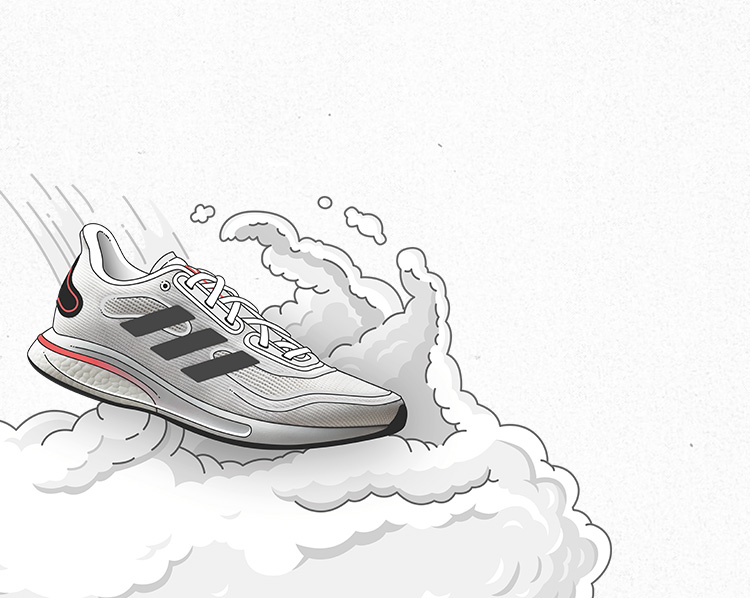
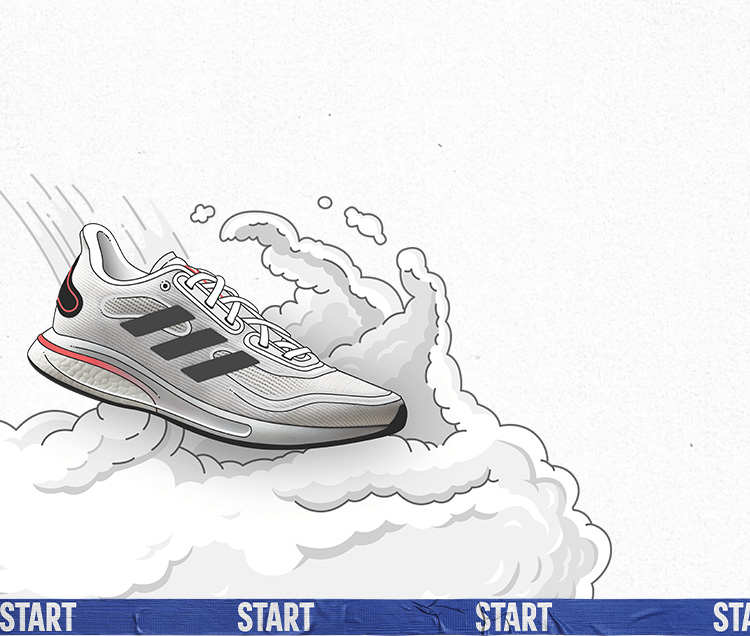
adi_cp_슈퍼노바 수정

Changed region(s): [[0.0, 0.2709, 1.0, 1.0]]

diff --git a/mobile/html/adidas/2020/event/supernova/build/index.html b/mobile/html/adidas/2020/event/supernova/build/index.html
@@ -16,7 +16,6 @@
 	<script type="text/javascript" src="/designjs/common/owl.carousel.min.js"></script>
 	<script type="text/javascript" src="/designjs/common/modalPopup.min.js"></script>
 	<script type="text/javascript" src="/designjs/common/zoomImage.js"></script>
-	<script type="text/javascript" src="/designjs/adidas/common.js"></script>
 	<title>아디다스 모바일</title>
 
 	<style>
@@ -31,7 +30,7 @@
 		<header include-html="/html/adidas/inc/header_.html"></header>
 
 		<div id="container">
-<style type="text/css">@media screen and (max-width: 320px){html{font-size:10px}}@media screen and (min-width: 800px){html{font-size:12px}}.pseudo-element{content:'';display:block}html,body{width:100%}button{outline:none}#supernova{position:relative}#supernova .button_area_v2{display:inline-block}#supernova .button_area_v2 a{padding:0 6vw;font:500 1rem/3.4rem 'NotoSansKR';letter-spacing:.15rem;height:3.4rem}#supernova .button_area_v2 a .arrow{margin-left:1rem;width:20px}#supernova .button_area_v2 a .arrow::after,#supernova .button_area_v2 a .arrow::before{width:7px;height:2px}#supernova .button_area_v2 a .arrow::before{bottom:-2px}#supernova .button_area_v2 a .arrow::after{top:-2px}#supernova .main_vs .main_vs_box{position:relative}#supernova .main_vs .main_vs_box>img{display:block;width:100%}#supernova .main_vs .main_vs_box .main_txt{position:absolute;left:50%;top:40%;transform:translate(-5%, -50%);text-align:right}#supernova .main_vs .main_vs_box .main_txt img{width:80%}#supernova .main_vs .main_vs_box .main_txt p{text-align:right;font:700 0.9rem/1.3rem 'NotoSansKR';color:#df6874;padding:14px 0 12px 0;letter-spacing:1px}#supernova .main_vs .main_vs_box .main_txt p span{display:block}#supernova .nova_shoes{padding:32px 0 33px 0}#supernova .nova_shoes .txt p{font:400 1.1rem/1.6rem 'NotoSansKR';text-align:center;color:#111;letter-spacing:0}#supernova .nova_shoes .txt p span{display:block}#supernova .nova_shoes .shoes_list{padding-top:30px;padding:30px 10.7% 0 10.7%}#supernova .nova_shoes .shoes_list .item img{width:100%}#supernova .nova_shoes .shoes_list .item h2{text-align:center;font:700 1.5rem/1.4rem 'NotoSansKR';color:#343434;padding:19px 0 9px 0}#supernova .nova_shoes .shoes_list .item p{text-align:center;font:500 1rem/1.3rem 'NotoSansKR';color:#181717;padding-bottom:10px}#supernova .nova_shoes .shoes_list .item p span{display:block}#supernova .nova_shoes .shoes_list .slick-dots{padding:10px 0 0 0;text-align:center}#supernova .nova_shoes .shoes_list .slick-dots li{display:inline-block;margin-right:5px}#supernova .nova_shoes .shoes_list .slick-dots li button{width:13px;height:13.5px;border-radius:50%;border:none;background:#d9d9d9;padding:0;text-indent:-9999px}#supernova .nova_shoes .shoes_list .slick-dots li.slick-active button{background:#111}#supernova .nova_img_list{text-align:center}#supernova .nova_img_list ul{overflow:hidden}#supernova .nova_img_list ul li{float:left;vertical-align:top;line-height:0}#supernova .nova_img_list ul li img{width:100%}#supernova .nova_img_list ul li.img1{width:53.33333333333%}#supernova .nova_img_list ul li.img2{width:46.66666666667%}#supernova .nova_img_list ul li.img3{width:50.66666666667%}#supernova .nova_img_list ul li.img4{width:49.33333333333%}#supernova .nova_img_list ul li .video .bg{text-align:center;position:relative}#supernova .nova_img_list ul li .video .video_btn{position:absolute;left:58%;top:56%;transform:translate(-50%, -50%)}#supernova .nova_img_list ul li .video .video_btn button{background:url("/images/adidas/2020/event/supernova/btn.png") no-repeat;width:58px;height:63px;border:0;background-size:70%}#supernova .start_bg_bar img{display:block;width:100%}#supernova .nova_shoes_cloud{text-align:center}#supernova .nova_shoes_cloud video{display:block;width:160%;margin-left:-30%}#supernova .nova_bottom .nova_box{position:relative;text-align:center}#supernova .nova_bottom .nova_box img{display:block;width:100%}#supernova .nova_bottom .txt{position:absolute;left:50%;top:50%;transform:translate(-50%, -50%);text-align:center}#supernova .nova_bottom .txt img{width:80%;margin:0 auto}#supernova .nova_bottom .txt p{text-align:center;font:700 0.9rem/1.3rem 'NotoSansKR';color:#df6874;padding:8px 0 8px 0;letter-spacing:1px}#supernova .nova_bottom .txt p span{display:block}
+<style type="text/css">@media screen and (max-width: 320px){html{font-size:10px}}@media screen and (min-width: 800px){html{font-size:12px}}.pseudo-element{content:'';display:block}html,body{width:100%}button{outline:none}#supernova{position:relative}#supernova .button_area_v2{display:inline-block}#supernova .button_area_v2 a{padding:0 6vw;font:500 1rem/3.4rem 'NotoSansKR';letter-spacing:.15rem;height:3.4rem}#supernova .button_area_v2 a .arrow{margin-left:1rem;width:20px}#supernova .button_area_v2 a .arrow::after,#supernova .button_area_v2 a .arrow::before{width:7px;height:2px}#supernova .button_area_v2 a .arrow::before{bottom:-2px}#supernova .button_area_v2 a .arrow::after{top:-2px}#supernova .main_vs .main_vs_box{position:relative}#supernova .main_vs .main_vs_box>img{display:block;width:100%}#supernova .main_vs .main_vs_box .main_txt{position:absolute;left:50%;top:40%;transform:translate(-5%, -50%);text-align:right}#supernova .main_vs .main_vs_box .main_txt img{width:80%}#supernova .main_vs .main_vs_box .main_txt p{text-align:right;font:700 0.9rem/1.3rem 'NotoSansKR';color:#df6874;padding:14px 0 12px 0;letter-spacing:1px}#supernova .main_vs .main_vs_box .main_txt p span{display:block}#supernova .nova_shoes{padding:32px 0 33px 0}#supernova .nova_shoes .txt h3{text-align:center;font:700 1.4rem/1.5rem 'NotoSansKR';letter-spacing:normal}#supernova .nova_shoes .txt p{padding-top:5px;text-align:center;font:400 1rem/1.5rem 'NotoSansKR';letter-spacing:normal}#supernova .nova_shoes .shoes_list{padding-top:30px;padding:30px 10.7% 0 10.7%}#supernova .nova_shoes .shoes_list .item img{width:100%}#supernova .nova_shoes .shoes_list .item h2{text-align:center;font:700 1.5rem/1.4rem 'NotoSansKR';color:#343434;padding:19px 0 9px 0}#supernova .nova_shoes .shoes_list .item p{text-align:center;font:500 1rem/1.3rem 'NotoSansKR';color:#181717;padding-bottom:10px}#supernova .nova_shoes .shoes_list .item p span{display:block}#supernova .nova_shoes .shoes_list .slick-dots{padding:10px 0 0 0;text-align:center}#supernova .nova_shoes .shoes_list .slick-dots li{display:inline-block;margin-right:5px}#supernova .nova_shoes .shoes_list .slick-dots li button{width:13px;height:13.5px;border-radius:50%;border:none;background:#d9d9d9;padding:0;text-indent:-9999px}#supernova .nova_shoes .shoes_list .slick-dots li.slick-active button{background:#111}#supernova .nova_img_list{text-align:center}#supernova .nova_img_list ul{overflow:hidden}#supernova .nova_img_list ul li{float:left;vertical-align:top;line-height:0}#supernova .nova_img_list ul li img{width:100%}#supernova .nova_img_list ul li.img1{width:53.33333333333%}#supernova .nova_img_list ul li.img2{width:46.66666666667%}#supernova .nova_img_list ul li.img3{width:50.66666666667%}#supernova .nova_img_list ul li.img4{width:49.33333333333%}#supernova .nova_img_list ul li .video{position:relative}#supernova .nova_img_list ul li .video .bg{text-align:center}#supernova .nova_img_list ul li .video .video_btn{position:absolute;left:58%;top:56%;transform:translate(-50%, -50%)}#supernova .nova_img_list ul li .video .video_btn button{background:url("/images/adidas/2020/event/supernova/btn.png") no-repeat;width:58px;height:63px;border:0;background-size:70%}#supernova .start_bg_bar img{display:block;width:100%}#supernova .nova_mid .txt{padding:3rem 0}#supernova .nova_mid .txt p{font:400 1.1rem/1.6rem 'NotoSansKR';text-align:center;color:#111;letter-spacing:0}#supernova .nova_mid .txt p span{display:block}#supernova .nova_shoes_cloud{text-align:center}#supernova .nova_shoes_cloud video{display:block;width:160%;margin-left:-30%}#supernova .nova_bottom .nova_box{position:relative;text-align:center}#supernova .nova_bottom .nova_box img{display:block;width:100%}#supernova .nova_bottom .txt{position:absolute;left:50%;top:50%;transform:translate(-50%, -50%);text-align:center}#supernova .nova_bottom .txt img{width:80%;margin:0 auto}#supernova .nova_bottom .txt p{text-align:center;font:700 0.9rem/1.3rem 'NotoSansKR';color:#df6874;padding:8px 0 8px 0;letter-spacing:1px}#supernova .nova_bottom .txt p span{display:block}
 </style>
 			<script type="text/javascript" src="/designjs/common/slick.min.js"></script>
 			<link rel="stylesheet" type="text/css" href="/css/slick.css" />
@@ -60,13 +59,8 @@
 				</div><!--main_vs-->
 				<div class="nova_shoes">
 					<div class="txt">
-						<p>
-							첫 걸음을 내딛는 일은 피니시 라인을 통과하는 것보다 어려워.<span></span>
-							하지만 결국 때가 올 거야.<span></span>
-							다시 뛰기 위한 완벽한 준비로 새로운 나를 향해 나아갈 거야. <span></span>
-							넘치는 자신감, 그리고 건강한 몸과 마음으로<span></span>
-							다시 뜨겁게 땀 흘릴 그 날을 위해.
-						</p>
+						<h3>이보다 더 편할 수는 없다.</h3>
+						<p>유연하면서도 탄력감 있게 받쳐주는 쿠셔닝의 신세계</p>
 					</div>
 					<div class="shoes_list">
 						<div class="item">
@@ -101,12 +95,12 @@
 							<div class="video">
 								<div class="bg">
 									<img src="/images/adidas/2020/event/supernova/nova_1.jpg" alt="">
-									<div class="video_btn">
-										<button onclick="alert('COMMING SOON') //openModalVideoViewer('?????')" style="cursor:pointer;"></button>
-									</div>
 								</div>
-								<img src ="/images/adidas/2020/event/supernova/nova_3.jpg" alt="" />
+								<div class="video_btn">
+									<button onclick="openModalVideoViewer('07HGHs0bLf0')" style="cursor:pointer;"></button>
+								</div>								
 							</div>							
+							<img src ="/images/adidas/2020/event/supernova/nova_3.jpg" alt="" />							
 						</li>
 						<li class="img2">
 							<img src ="/images/adidas/2020/event/supernova/nova_2.jpg" alt="" />
@@ -122,10 +116,21 @@
 							<img src ="/images/adidas/2020/event/supernova/nova_9.jpg" alt="" />							
 						</li>															
 					</ul>
-					<div class="start_bg_bar">
-						<img src="/images/adidas/2020/event/supernova/start_bg_bar.jpg" alt="start 띠 배경"/>
-					</div>
 				</div><!--nova_img_list-->
+				<div class="nova_mid">
+					<div class="txt">
+						<p>
+							첫 걸음을 내딛는 일은 피니시 라인을 통과하는 것보다 어려워.<span></span>
+							하지만 결국 때가 올 거야.<span></span>
+							다시 뛰기 위한 완벽한 준비로 새로운 나를 향해 나아갈 거야. <span></span>
+							넘치는 자신감, 그리고 건강한 몸과 마음으로<span></span>
+							다시 뜨겁게 땀 흘릴 그 날을 위해.
+						</p>
+					</div>
+				</div>
+				<div class="start_bg_bar">
+					<img src="/images/adidas/2020/event/supernova/start_bg_bar.jpg" alt="start 띠 배경"/>
+				</div>				
 				<div class="nova_shoes_cloud">
 					<video autoplay muted loop playsinline poster="/images/adidas/2020/event/supernova/shoes_cloud.jpg" width="auto" height="auto" class="video_act">
 						<source src="https://shop.adidas.co.kr/upload/design_temp/video/2020/a/supernova/supernova1280x720.mp4" type="video/mp4" />
@@ -133,7 +138,7 @@
 					</video>
 				</div><!--nova_shoes_cloud-->
 				<div class="start_bg_bar">
-					<img src="/images/adidas/2020/event/supernova/start_bg_bar.jpg" alt="start 띠 배경"/>
+					<img src="/images/adidas/2020/event/supernova/start_bg_bar2.png" alt="start 띠 배경"/>
 				</div>
 				<div class="nova_bottom">
 					<div class="nova_box">
@@ -184,6 +189,6 @@
 
 
 		<script type="text/javascript" src="/designjs/adidas/includeHTML.js"></script>
-
+		<script type="text/javascript" src="/designjs/adidas/common.js"></script>
 </body>
 </html>

diff --git a/mobile/html/adidas/pn/Supernova.html b/mobile/html/adidas/pn/Supernova.html
@@ -1,5 +1,5 @@
 <div id="container">
-	<style type="text/css">@media screen and (max-width: 320px){html{font-size:10px}}@media screen and (min-width: 800px){html{font-size:12px}}.pseudo-element{content:'';display:block}html,body{width:100%}button{outline:none}#supernova{position:relative}#supernova .button_area_v2{display:inline-block}#supernova .button_area_v2 a{padding:0 6vw;font:500 1rem/3.4rem 'NotoSansKR';letter-spacing:.15rem;height:3.4rem}#supernova .button_area_v2 a .arrow{margin-left:1rem;width:20px}#supernova .button_area_v2 a .arrow::after,#supernova .button_area_v2 a .arrow::before{width:7px;height:2px}#supernova .button_area_v2 a .arrow::before{bottom:-2px}#supernova .button_area_v2 a .arrow::after{top:-2px}#supernova .main_vs .main_vs_box{position:relative}#supernova .main_vs .main_vs_box>img{display:block;width:100%}#supernova .main_vs .main_vs_box .main_txt{position:absolute;left:50%;top:40%;transform:translate(-5%, -50%);text-align:right}#supernova .main_vs .main_vs_box .main_txt img{width:80%}#supernova .main_vs .main_vs_box .main_txt p{text-align:right;font:700 0.9rem/1.3rem 'NotoSansKR';color:#df6874;padding:14px 0 12px 0;letter-spacing:1px}#supernova .main_vs .main_vs_box .main_txt p span{display:block}#supernova .nova_shoes{padding:32px 0 33px 0}#supernova .nova_shoes .txt p{font:400 1.1rem/1.6rem 'NotoSansKR';text-align:center;color:#111;letter-spacing:0}#supernova .nova_shoes .txt p span{display:block}#supernova .nova_shoes .shoes_list{padding-top:30px;padding:30px 10.7% 0 10.7%}#supernova .nova_shoes .shoes_list .item img{width:100%}#supernova .nova_shoes .shoes_list .item h2{text-align:center;font:700 1.5rem/1.4rem 'NotoSansKR';color:#343434;padding:19px 0 9px 0}#supernova .nova_shoes .shoes_list .item p{text-align:center;font:500 1rem/1.3rem 'NotoSansKR';color:#181717;padding-bottom:10px}#supernova .nova_shoes .shoes_list .item p span{display:block}#supernova .nova_shoes .shoes_list .slick-dots{padding:10px 0 0 0;text-align:center}#supernova .nova_shoes .shoes_list .slick-dots li{display:inline-block;margin-right:5px}#supernova .nova_shoes .shoes_list .slick-dots li button{width:13px;height:13.5px;border-radius:50%;border:none;background:#d9d9d9;padding:0;text-indent:-9999px}#supernova .nova_shoes .shoes_list .slick-dots li.slick-active button{background:#111}#supernova .nova_img_list{text-align:center}#supernova .nova_img_list ul{overflow:hidden}#supernova .nova_img_list ul li{float:left;vertical-align:top;line-height:0}#supernova .nova_img_list ul li img{width:100%}#supernova .nova_img_list ul li.img1{width:53.33333333333%}#supernova .nova_img_list ul li.img2{width:46.66666666667%}#supernova .nova_img_list ul li.img3{width:50.66666666667%}#supernova .nova_img_list ul li.img4{width:49.33333333333%}#supernova .nova_img_list ul li .video .bg{text-align:center;position:relative}#supernova .nova_img_list ul li .video .video_btn{position:absolute;left:58%;top:56%;transform:translate(-50%, -50%)}#supernova .nova_img_list ul li .video .video_btn button{background:url("/images/adidas/2020/event/supernova/btn.png") no-repeat;width:58px;height:63px;border:0;background-size:70%}#supernova .start_bg_bar img{display:block;width:100%}#supernova .nova_shoes_cloud{text-align:center}#supernova .nova_shoes_cloud video{display:block;width:160%;margin-left:-30%}#supernova .nova_bottom .nova_box{position:relative;text-align:center}#supernova .nova_bottom .nova_box img{display:block;width:100%}#supernova .nova_bottom .txt{position:absolute;left:50%;top:50%;transform:translate(-50%, -50%);text-align:center}#supernova .nova_bottom .txt img{width:80%;margin:0 auto}#supernova .nova_bottom .txt p{text-align:center;font:700 0.9rem/1.3rem 'NotoSansKR';color:#df6874;padding:8px 0 8px 0;letter-spacing:1px}#supernova .nova_bottom .txt p span{display:block}
+	<style type="text/css">@media screen and (max-width: 320px){html{font-size:10px}}@media screen and (min-width: 800px){html{font-size:12px}}.pseudo-element{content:'';display:block}html,body{width:100%}button{outline:none}#supernova{position:relative}#supernova .button_area_v2{display:inline-block}#supernova .button_area_v2 a{padding:0 6vw;font:500 1rem/3.4rem 'NotoSansKR';letter-spacing:.15rem;height:3.4rem}#supernova .button_area_v2 a .arrow{margin-left:1rem;width:20px}#supernova .button_area_v2 a .arrow::after,#supernova .button_area_v2 a .arrow::before{width:7px;height:2px}#supernova .button_area_v2 a .arrow::before{bottom:-2px}#supernova .button_area_v2 a .arrow::after{top:-2px}#supernova .main_vs .main_vs_box{position:relative}#supernova .main_vs .main_vs_box>img{display:block;width:100%}#supernova .main_vs .main_vs_box .main_txt{position:absolute;left:50%;top:40%;transform:translate(-5%, -50%);text-align:right}#supernova .main_vs .main_vs_box .main_txt img{width:80%}#supernova .main_vs .main_vs_box .main_txt p{text-align:right;font:700 0.9rem/1.3rem 'NotoSansKR';color:#df6874;padding:14px 0 12px 0;letter-spacing:1px}#supernova .main_vs .main_vs_box .main_txt p span{display:block}#supernova .nova_shoes{padding:32px 0 33px 0}#supernova .nova_shoes .txt h3{text-align:center;font:700 1.4rem/1.5rem 'NotoSansKR';letter-spacing:normal}#supernova .nova_shoes .txt p{padding-top:5px;text-align:center;font:400 1rem/1.5rem 'NotoSansKR';letter-spacing:normal}#supernova .nova_shoes .shoes_list{padding-top:30px;padding:30px 10.7% 0 10.7%}#supernova .nova_shoes .shoes_list .item img{width:100%}#supernova .nova_shoes .shoes_list .item h2{text-align:center;font:700 1.5rem/1.4rem 'NotoSansKR';color:#343434;padding:19px 0 9px 0}#supernova .nova_shoes .shoes_list .item p{text-align:center;font:500 1rem/1.3rem 'NotoSansKR';color:#181717;padding-bottom:10px}#supernova .nova_shoes .shoes_list .item p span{display:block}#supernova .nova_shoes .shoes_list .slick-dots{padding:10px 0 0 0;text-align:center}#supernova .nova_shoes .shoes_list .slick-dots li{display:inline-block;margin-right:5px}#supernova .nova_shoes .shoes_list .slick-dots li button{width:13px;height:13.5px;border-radius:50%;border:none;background:#d9d9d9;padding:0;text-indent:-9999px}#supernova .nova_shoes .shoes_list .slick-dots li.slick-active button{background:#111}#supernova .nova_img_list{text-align:center}#supernova .nova_img_list ul{overflow:hidden}#supernova .nova_img_list ul li{float:left;vertical-align:top;line-height:0}#supernova .nova_img_list ul li img{width:100%}#supernova .nova_img_list ul li.img1{width:53.33333333333%}#supernova .nova_img_list ul li.img2{width:46.66666666667%}#supernova .nova_img_list ul li.img3{width:50.66666666667%}#supernova .nova_img_list ul li.img4{width:49.33333333333%}#supernova .nova_img_list ul li .video{position:relative}#supernova .nova_img_list ul li .video .bg{text-align:center}#supernova .nova_img_list ul li .video .video_btn{position:absolute;left:58%;top:56%;transform:translate(-50%, -50%)}#supernova .nova_img_list ul li .video .video_btn button{background:url("/images/adidas/2020/event/supernova/btn.png") no-repeat;width:58px;height:63px;border:0;background-size:70%}#supernova .start_bg_bar img{display:block;width:100%}#supernova .nova_mid .txt{padding:3rem 0}#supernova .nova_mid .txt p{font:400 1.1rem/1.6rem 'NotoSansKR';text-align:center;color:#111;letter-spacing:0}#supernova .nova_mid .txt p span{display:block}#supernova .nova_shoes_cloud{text-align:center}#supernova .nova_shoes_cloud video{display:block;width:160%;margin-left:-30%}#supernova .nova_bottom .nova_box{position:relative;text-align:center}#supernova .nova_bottom .nova_box img{display:block;width:100%}#supernova .nova_bottom .txt{position:absolute;left:50%;top:50%;transform:translate(-50%, -50%);text-align:center}#supernova .nova_bottom .txt img{width:80%;margin:0 auto}#supernova .nova_bottom .txt p{text-align:center;font:700 0.9rem/1.3rem 'NotoSansKR';color:#df6874;padding:8px 0 8px 0;letter-spacing:1px}#supernova .nova_bottom .txt p span{display:block}
 	</style>
 				<script type="text/javascript" src="/designjs/common/slick.min.js"></script>
 				<link rel="stylesheet" type="text/css" href="/css/slick.css" />
@@ -28,13 +28,8 @@
 					</div><!--main_vs-->
 					<div class="nova_shoes">
 						<div class="txt">
-							<p>
-								첫 걸음을 내딛는 일은 피니시 라인을 통과하는 것보다 어려워.<span></span>
-								하지만 결국 때가 올 거야.<span></span>
-								다시 뛰기 위한 완벽한 준비로 새로운 나를 향해 나아갈 거야. <span></span>
-								넘치는 자신감, 그리고 건강한 몸과 마음으로<span></span>
-								다시 뜨겁게 땀 흘릴 그 날을 위해.
-							</p>
+							<h3>이보다 더 편할 수는 없다.</h3>
+							<p>유연하면서도 탄력감 있게 받쳐주는 쿠셔닝의 신세계</p>
 						</div>
 						<div class="shoes_list">
 							<div class="item">
@@ -69,12 +64,12 @@
 								<div class="video">
 									<div class="bg">
 										<img src="/images/adidas/2020/event/supernova/nova_1.jpg" alt="">
-										<div class="video_btn">
-											<button onclick="alert('COMMING SOON') //openModalVideoViewer('?????')" style="cursor:pointer;"></button>
-										</div>
 									</div>
-									<img src ="/images/adidas/2020/event/supernova/nova_3.jpg" alt="" />
+									<div class="video_btn">
+										<button onclick="openModalVideoViewer('07HGHs0bLf0')" style="cursor:pointer;"></button>
+									</div>								
 								</div>							
+								<img src ="/images/adidas/2020/event/supernova/nova_3.jpg" alt="" />							
 							</li>
 							<li class="img2">
 								<img src ="/images/adidas/2020/event/supernova/nova_2.jpg" alt="" />
@@ -90,10 +85,21 @@
 								<img src ="/images/adidas/2020/event/supernova/nova_9.jpg" alt="" />							
 							</li>															
 						</ul>
-						<div class="start_bg_bar">
-							<img src="/images/adidas/2020/event/supernova/start_bg_bar.jpg" alt="start 띠 배경"/>
-						</div>
 					</div><!--nova_img_list-->
+					<div class="nova_mid">
+						<div class="txt">
+							<p>
+								첫 걸음을 내딛는 일은 피니시 라인을 통과하는 것보다 어려워.<span></span>
+								하지만 결국 때가 올 거야.<span></span>
+								다시 뛰기 위한 완벽한 준비로 새로운 나를 향해 나아갈 거야. <span></span>
+								넘치는 자신감, 그리고 건강한 몸과 마음으로<span></span>
+								다시 뜨겁게 땀 흘릴 그 날을 위해.
+							</p>
+						</div>
+					</div>
+					<div class="start_bg_bar">
+						<img src="/images/adidas/2020/event/supernova/start_bg_bar.jpg" alt="start 띠 배경"/>
+					</div>				
 					<div class="nova_shoes_cloud">
 						<video autoplay muted loop playsinline poster="/images/adidas/2020/event/supernova/shoes_cloud.jpg" width="auto" height="auto" class="video_act">
 							<source src="https://shop.adidas.co.kr/upload/design_temp/video/2020/a/supernova/supernova1280x720.mp4" type="video/mp4" />
@@ -101,7 +107,7 @@
 						</video>
 					</div><!--nova_shoes_cloud-->
 					<div class="start_bg_bar">
-						<img src="/images/adidas/2020/event/supernova/start_bg_bar.jpg" alt="start 띠 배경"/>
+						<img src="/images/adidas/2020/event/supernova/start_bg_bar2.png" alt="start 띠 배경"/>
 					</div>
 					<div class="nova_bottom">
 						<div class="nova_box">
@@ -145,3 +151,4 @@
 					});
 			   </script>					
 			</div>
+			<!-- //container product_list -->

diff --git a/mobile/html/adidas/2020/event/supernova/index.html b/mobile/html/adidas/2020/event/supernova/index.html
@@ -16,7 +16,6 @@
 	<script type="text/javascript" src="/designjs/common/owl.carousel.min.js"></script>
 	<script type="text/javascript" src="/designjs/common/modalPopup.min.js"></script>
 	<script type="text/javascript" src="/designjs/common/zoomImage.js"></script>
-	<script type="text/javascript" src="/designjs/adidas/common.js"></script>
 	<title>아디다스 모바일</title>
 
 	<style>
@@ -58,13 +57,8 @@
 				</div><!--main_vs-->
 				<div class="nova_shoes">
 					<div class="txt">
-						<p>
-							첫 걸음을 내딛는 일은 피니시 라인을 통과하는 것보다 어려워.<span></span>
-							하지만 결국 때가 올 거야.<span></span>
-							다시 뛰기 위한 완벽한 준비로 새로운 나를 향해 나아갈 거야. <span></span>
-							넘치는 자신감, 그리고 건강한 몸과 마음으로<span></span>
-							다시 뜨겁게 땀 흘릴 그 날을 위해.
-						</p>
+						<h3>이보다 더 편할 수는 없다.</h3>
+						<p>유연하면서도 탄력감 있게 받쳐주는 쿠셔닝의 신세계</p>
 					</div>
 					<div class="shoes_list">
 						<div class="item">
@@ -99,12 +93,12 @@
 							<div class="video">
 								<div class="bg">
 									<img src="/images/adidas/2020/event/supernova/nova_1.jpg" alt="">
-									<div class="video_btn">
-										<button onclick="alert('COMMING SOON') //openModalVideoViewer('?????')" style="cursor:pointer;"></button>
-									</div>
 								</div>
-								<img src ="/images/adidas/2020/event/supernova/nova_3.jpg" alt="" />
+								<div class="video_btn">
+									<button onclick="openModalVideoViewer('07HGHs0bLf0')" style="cursor:pointer;"></button>
+								</div>								
 							</div>							
+							<img src ="/images/adidas/2020/event/supernova/nova_3.jpg" alt="" />							
 						</li>
 						<li class="img2">
 							<img src ="/images/adidas/2020/event/supernova/nova_2.jpg" alt="" />
@@ -120,10 +114,21 @@
 							<img src ="/images/adidas/2020/event/supernova/nova_9.jpg" alt="" />							
 						</li>															
 					</ul>
-					<div class="start_bg_bar">
-						<img src="/images/adidas/2020/event/supernova/start_bg_bar.jpg" alt="start 띠 배경"/>
-					</div>
 				</div><!--nova_img_list-->
+				<div class="nova_mid">
+					<div class="txt">
+						<p>
+							첫 걸음을 내딛는 일은 피니시 라인을 통과하는 것보다 어려워.<span></span>
+							하지만 결국 때가 올 거야.<span></span>
+							다시 뛰기 위한 완벽한 준비로 새로운 나를 향해 나아갈 거야. <span></span>
+							넘치는 자신감, 그리고 건강한 몸과 마음으로<span></span>
+							다시 뜨겁게 땀 흘릴 그 날을 위해.
+						</p>
+					</div>
+				</div>
+				<div class="start_bg_bar">
+					<img src="/images/adidas/2020/event/supernova/start_bg_bar.jpg" alt="start 띠 배경"/>
+				</div>				
 				<div class="nova_shoes_cloud">
 					<video autoplay muted loop playsinline poster="/images/adidas/2020/event/supernova/shoes_cloud.jpg" width="auto" height="auto" class="video_act">
 						<source src="https://shop.adidas.co.kr/upload/design_temp/video/2020/a/supernova/supernova1280x720.mp4" type="video/mp4" />
@@ -131,7 +136,7 @@
 					</video>
 				</div><!--nova_shoes_cloud-->
 				<div class="start_bg_bar">
-					<img src="/images/adidas/2020/event/supernova/start_bg_bar.jpg" alt="start 띠 배경"/>
+					<img src="/images/adidas/2020/event/supernova/start_bg_bar2.png" alt="start 띠 배경"/>
 				</div>
 				<div class="nova_bottom">
 					<div class="nova_box">
@@ -182,6 +187,6 @@
 
 
 		<script type="text/javascript" src="/designjs/adidas/includeHTML.js"></script>
-
+		<script type="text/javascript" src="/designjs/adidas/common.js"></script>
 </body>
 </html>

diff --git a/mobile/html/adidas/2020/event/supernova/index.scss b/mobile/html/adidas/2020/event/supernova/index.scss
@@ -76,14 +76,16 @@ button{
 	.nova_shoes{
 		padding:32px 0 33px 0;
 		.txt{
-			p{
-				font:400 1.1rem/1.6rem 'NotoSansKR';
+			h3{
 				text-align:center;
-				color:#111;
-				letter-spacing:0;
-				span{
-					display:block;
-				}
+				font:700 1.4rem/1.5rem 'NotoSansKR';
+				letter-spacing: normal;
+			}
+			p{
+				padding-top:5px;
+				text-align:center;
+				font:400 1rem/1.5rem 'NotoSansKR';				
+				letter-spacing: normal;
 			}
 		}
 		.shoes_list{
@@ -157,9 +159,9 @@ button{
 					width:49.33333333333%;
 				}		
 				.video{
+					position:relative;					
 					.bg{
 						text-align:center;
-						position:relative;
 					}
 					.video_btn{
 						position:absolute;left:58%;top:56%;
@@ -183,6 +185,20 @@ button{
 			width:100%;
 		}
 	}//start_bg_bar	
+	.nova_mid{
+		.txt{
+			padding:3rem 0;
+			p{
+				font:400 1.1rem/1.6rem 'NotoSansKR';
+				text-align:center;
+				color:#111;
+				letter-spacing:0;
+				span{
+					display:block;
+				}
+			}
+		}		
+	}
 	.nova_shoes_cloud{
 		text-align:center;
 		video{
